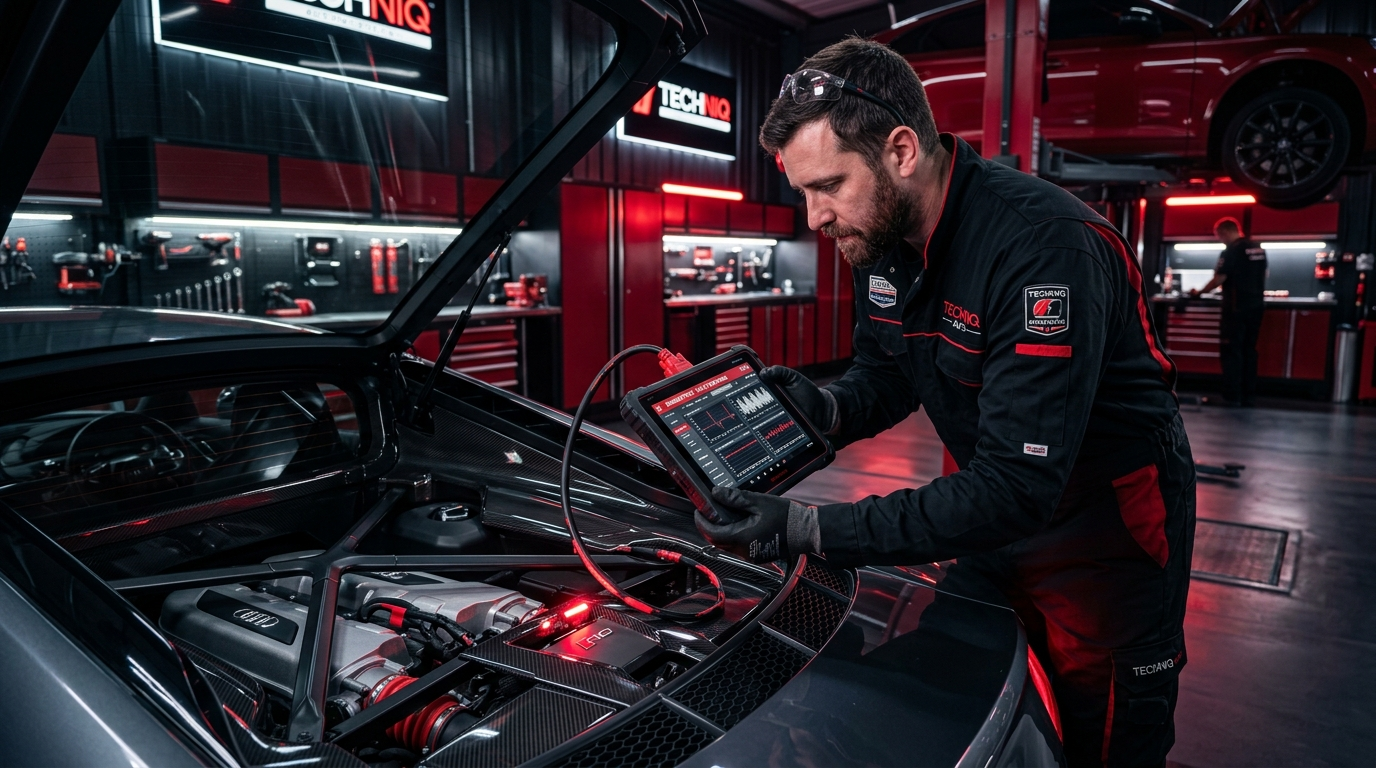
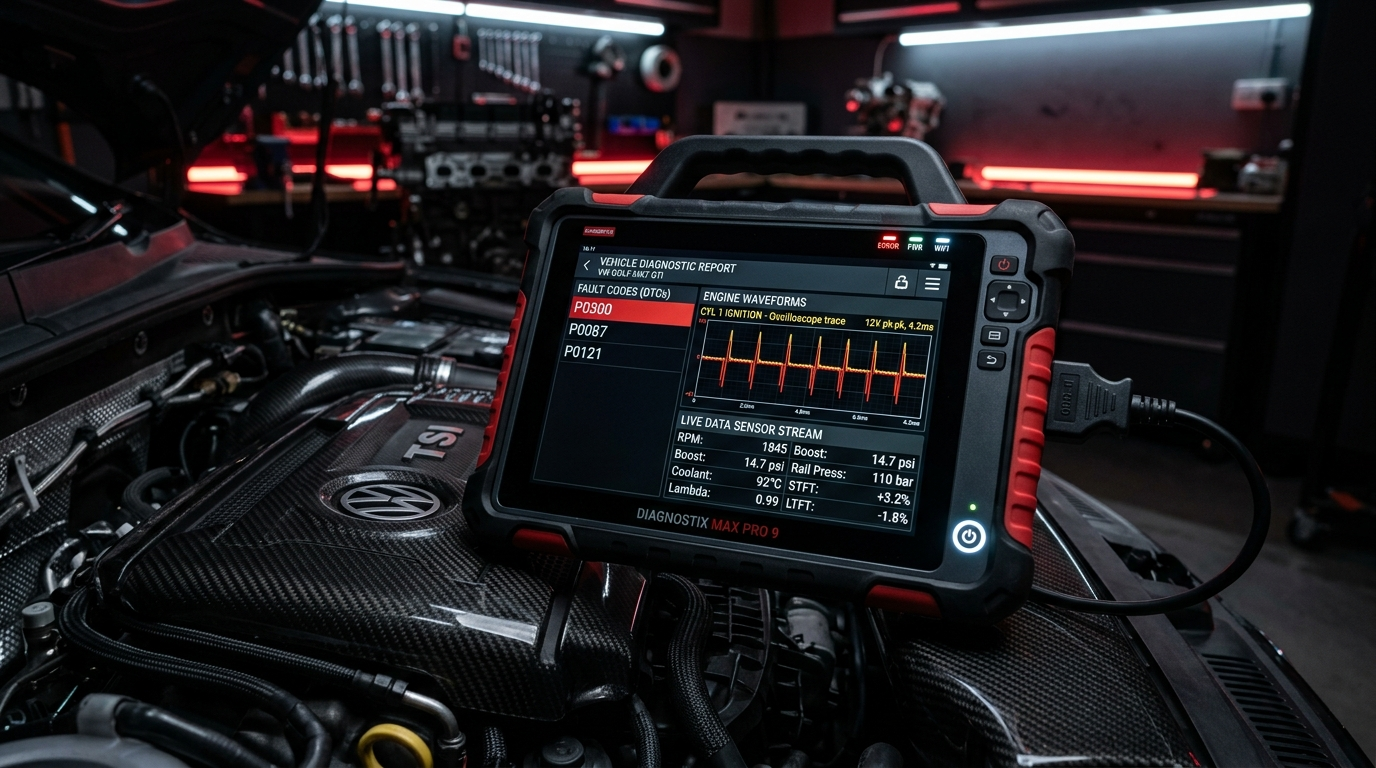
style: menü tasarımı modernize edildi ve insan yüzü içeren görseller yenilendi

diff --git a/style.css b/style.css
@@ -358,31 +358,37 @@ h1, h2, h3, h4, h5, h6 {
   top: 0;
   left: 0;
   width: 100%;
-  background-color: rgba(9, 9, 11, 0.88);
-  backdrop-filter: blur(16px);
-  -webkit-backdrop-filter: blur(16px);
-  border-bottom: 1px solid var(--border-dark);
+  background-color: rgba(9, 9, 12, 0.88);
+  backdrop-filter: blur(20px);
+  -webkit-backdrop-filter: blur(20px);
+  border-bottom: 1px solid rgba(255, 255, 255, 0.08);
   z-index: 100;
   transition: all var(--transition-fast);
 }
 
 .main-header.scrolled {
-  background-color: rgba(5, 5, 6, 0.96);
-  border-bottom-color: rgba(229, 9, 20, 0.3);
-  box-shadow: 0 4px 20px rgba(0, 0, 0, 0.7);
+  background-color: rgba(6, 6, 8, 0.96);
+  border-bottom-color: rgba(229, 9, 20, 0.35);
+  box-shadow: 0 8px 30px rgba(0, 0, 0, 0.8);
 }
 
 .header-container {
   display: flex;
   align-items: center;
   justify-content: space-between;
-  height: 78px;
+  height: 82px;
+  max-width: 1400px;
+  width: 100%;
+  margin: 0 auto;
+  padding: 0 24px;
+  gap: 16px;
 }
 
 .brand-logo {
   display: flex;
   align-items: center;
   gap: 12px;
+  flex-shrink: 0;
 }
 
 .logo-emblem {
@@ -427,82 +433,98 @@ h1, h2, h3, h4, h5, h6 {
   font-weight: 600;
 }
 
+/* Floating Glass Island Navbar */
 .desktop-nav {
   display: flex;
   align-items: center;
-  gap: 24px;
+  gap: 4px;
+  background: rgba(18, 18, 24, 0.75);
+  border: 1px solid rgba(255, 255, 255, 0.08);
+  padding: 6px 8px;
+  border-radius: 40px;
+  backdrop-filter: blur(14px);
+  -webkit-backdrop-filter: blur(14px);
+  box-shadow: 0 4px 20px rgba(0, 0, 0, 0.45), inset 0 1px 0 rgba(255, 255, 255, 0.05);
 }
 
 .nav-link {
-  font-size: 0.9rem;
-  font-weight: 500;
-  color: var(--text-secondary);
-  position: relative;
-  padding: 6px 0;
-}
-
-.nav-link::after {
-  content: '';
-  position: absolute;
-  bottom: 0;
-  left: 0;
-  width: 0%;
-  height: 2px;
-  background-color: var(--red-bright);
-  transition: width var(--transition-fast);
+  font-size: 0.88rem;
+  font-weight: 600;
+  color: #a1a1aa;
+  white-space: nowrap;
+  flex-shrink: 0;
+  padding: 8px 14px;
+  border-radius: 24px;
+  line-height: 1.2;
+  text-align: center;
+  transition: all var(--transition-fast);
+  display: inline-flex;
+  align-items: center;
+  justify-content: center;
+  border: 1px solid transparent;
 }
 
 .nav-link:hover {
   color: #ffffff;
-}
-
-.nav-link:hover::after,
-.nav-link.active::after {
-  width: 100%;
+  background: rgba(255, 255, 255, 0.07);
 }
 
 .nav-link.active {
   color: #ffffff;
+  background: linear-gradient(135deg, rgba(229, 9, 20, 0.35) 0%, rgba(153, 0, 8, 0.22) 100%);
+  border: 1px solid rgba(255, 30, 39, 0.5);
+  box-shadow: 0 0 15px rgba(229, 9, 20, 0.35);
 }
 
 .header-actions {
   display: flex;
   align-items: center;
-  gap: 14px;
+  gap: 12px;
+  flex-shrink: 0;
 }
 
 .btn-call-header {
-  background: rgba(229, 9, 20, 0.1);
-  border: 1px solid var(--border-red);
+  background: rgba(229, 9, 20, 0.12);
+  border: 1px solid rgba(229, 9, 20, 0.4);
   color: #ffffff;
   padding: 8px 16px;
-  border-radius: var(--radius-sm);
+  border-radius: 30px;
   display: flex;
   align-items: center;
   gap: 10px;
+  transition: all var(--transition-fast);
+  box-shadow: 0 0 12px rgba(229, 9, 20, 0.15);
 }
 
 .btn-call-header:hover {
   background: var(--red-primary);
   border-color: var(--red-bright);
-  box-shadow: 0 0 15px var(--red-glow);
+  box-shadow: 0 0 20px var(--red-glow);
+  transform: translateY(-1px);
 }
 
 .btn-call-header .btn-icon {
-  font-size: 1.1rem;
+  font-size: 1.05rem;
+  color: var(--red-bright);
+}
+
+.btn-call-header:hover .btn-icon {
+  color: #fff;
 }
 
 .btn-call-header .btn-text {
   display: flex;
   flex-direction: column;
-  line-height: 1.1;
+  line-height: 1.15;
   text-align: left;
 }
 
 .btn-call-header .btn-text small {
-  font-size: 0.7rem;
-  color: var(--red-bright);
-  font-weight: 600;
+  font-size: 0.68rem;
+  color: #ff6b72;
+  font-weight: 700;
+  text-transform: uppercase;
+  letter-spacing: 0.5px;
 }
 
 .btn-call-header:hover .btn-text small {
@@ -510,25 +532,29 @@ h1, h2, h3, h4, h5, h6 {
 }
 
 .btn-call-header .btn-text strong {
-  font-size: 0.85rem;
-  letter-spacing: 0.2px;
+  font-size: 0.88rem;
+  letter-spacing: 0.3px;
+  font-weight: 700;
 }
 
 .btn-whatsapp-header {
   background: #25d366;
   color: #fff;
-  padding: 9px 16px;
-  border-radius: var(--radius-sm);
-  font-weight: 600;
+  padding: 9px 18px;
+  border-radius: 30px;
+  font-weight: 700;
   font-size: 0.85rem;
   display: flex;
   align-items: center;
   gap: 6px;
+  box-shadow: 0 4px 15px rgba(37, 211, 102, 0.25);
+  transition: all var(--transition-fast);
 }
 
 .btn-whatsapp-header:hover {
   background: #20bd5a;
-  box-shadow: 0 0 15px rgba(37, 211, 102, 0.4);
+  box-shadow: 0 4px 20px rgba(37, 211, 102, 0.45);
+  transform: translateY(-1px);
 }
 
 .mobile-toggle {
@@ -2171,6 +2197,39 @@ h1, h2, h3, h4, h5, h6 {
 /* ==========================================================================
    RESPONSIVE MEDIA QUERIES
    ========================================================================== */
+@media (max-width: 1200px) {
+  .desktop-nav {
+    gap: 2px;
+    padding: 4px 6px;
+  }
+  .nav-link {
+    padding: 6px 10px;
+    font-size: 0.82rem;
+  }
+  .btn-call-header {
+    padding: 7px 12px;
+  }
+  .btn-call-header .btn-text strong {
+    font-size: 0.8rem;
+  }
+  .btn-whatsapp-header {
+    padding: 8px 12px;
+    font-size: 0.8rem;
+  }
+}
+
+@media (max-width: 992px) {
+  .desktop-nav {
+    display: none;
+  }
+  .mobile-toggle {
+    display: flex;
+  }
+  .btn-call-header {
+    display: none;
+  }
+}
+
 @media (max-width: 1100px) {
   .hero-container {
     grid-template-columns: 1fr;

diff --git a/index.html b/index.html
@@ -107,7 +107,7 @@
         <a href="#hero" class="nav-link active">Ana Sayfa</a>
         <a href="#about" class="nav-link">Hakkımızda</a>
         <a href="#services" class="nav-link">Hizmetlerimiz</a>
-        <a href="#ecu" class="nav-link">Beyin Tamiri (ECU)</a>
+        <a href="#ecu" class="nav-link">Beyin Tamiri</a>
         <a href="#gallery" class="nav-link">Atölyemiz</a>
         <a href="#reviews" class="nav-link">Yorumlar</a>
         <a href="#contact" class="nav-link">İletişim & Konum</a>
@@ -310,7 +310,7 @@
       <div class="about-grid">
         <div class="about-images-collage">
           <div class="collage-main">
-            <img src="images/shop_work5.jpg" alt="Aygün Oto Elektronik 2 Dükkan Cephesi ve Tabela" loading="lazy">
+            <img src="images/shop_work6.jpg" alt="Aygün Oto Elektronik 2 Dükkan Cephesi ve Tabela" loading="lazy">
             <div class="collage-badge">
               <span>Resmi Dükkan Tabelamız</span>
             </div>
@@ -499,7 +499,7 @@
         <!-- Service Card 5 -->
         <div class="service-card">
           <div class="service-img-wrap">
-            <img src="images/shop_work1.jpg" alt="Oto Elektrik ve Marş Şarj Tamiri" loading="lazy">
+            <img src="images/oto_elektrik_tesisat.jpg" alt="Oto Elektrik ve Marş Şarj Tamiri" loading="lazy">
             <span class="service-badge">Kapsamlı Elektrik</span>
           </div>
           <div class="service-body">
@@ -654,7 +654,7 @@
         
         <!-- Photo 1: Storefront with Signboard -->
         <div class="gallery-item" data-title="Dükkan Girişi & Tabela">
-          <img src="images/shop_work5.jpg" alt="Aygün Oto Elektronik 2 Dükkan Tabela Görünümü" loading="lazy">
+          <img src="images/shop_work6.jpg" alt="Aygün Oto Elektronik 2 Dükkan Tabela Görünümü" loading="lazy">
           <div class="gallery-overlay">
             <span class="gallery-zoom">🔍</span>
             <h4>Resmi Giriş & Tabelamız</h4>
@@ -672,13 +672,13 @@
           </div>
         </div>
 
-        <!-- Photo 3: Fatih Usta at Work -->
-        <div class="gallery-item" data-title="Fatih Usta Araç Başında">
-          <img src="images/shop_work1.jpg" alt="Fatih Usta Araç Üzerinde Onarım Yaparken" loading="lazy">
+        <!-- Photo 3: Workshop Bay -->
+        <div class="gallery-item" data-title="Servis Alanımız ve Araç Bakımı">
+          <img src="images/shop_work4.jpg" alt="Servis Alanımız ve Araç Bakımı" loading="lazy">
           <div class="gallery-overlay">
             <span class="gallery-zoom">🔍</span>
-            <h4>Fatih Usta İş Başında</h4>
-            <p>Araç Üzerinde Hassas Teşhis ve Kontrol</p>
+            <h4>Servis & Test Alanımız</h4>
+            <p>Kırmızı-Siyah Konseptli Temiz Atölye</p>
           </div>
         </div>
 
